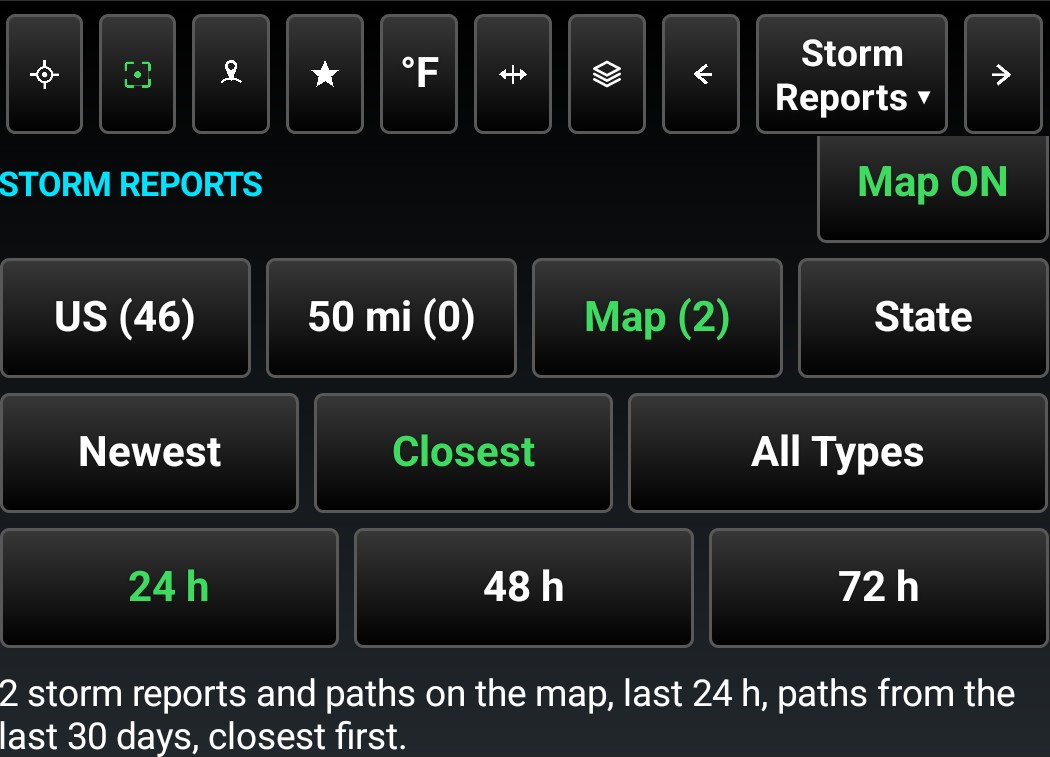
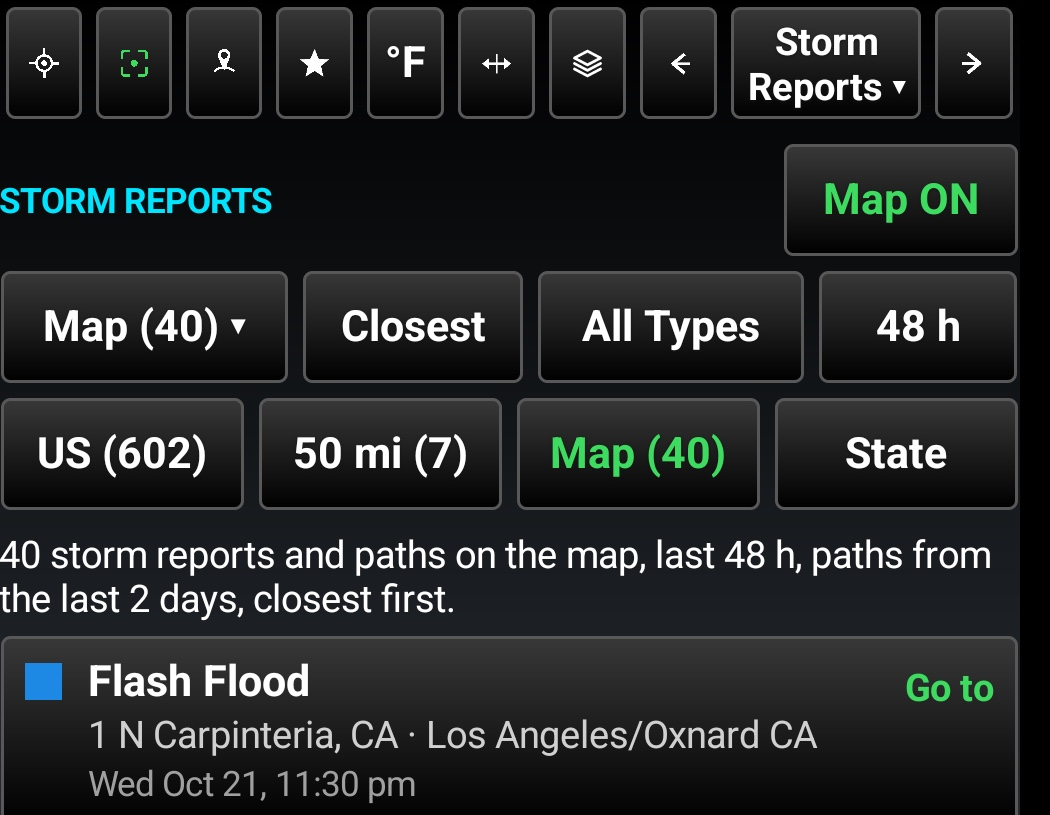
Atmosphere 0.20: one row above the list on Storm Reports and Spot
The three rows of filter buttons on the Storm Reports page and the three on
the Spot Weather Forecast page become one, so the list starts two or three
rows higher (operator, 2026-10-19: "the where can be like a button that gets
expanded, the next filter a button that you click through ... like newest
closest"). The first button reads the current Where pick with its count and
opens the old choices beneath it; a pick closes them again. The sort is one
button that flips between Newest and Closest, and on Storm Reports the window
is one button that steps 24 h, 48 h, 72 h. Types stays the tile picker.

Manual and guide: the two paragraphs and pictures 107 and 59 retaken from the
dev build on an S10. Version 0.20, with the Radar Play GPS-lock fix merged
from claude/issue-83 (PR #6).

diff --git a/app/src/main/java/com/atakmap/android/atmosphere/ui/ReportsPage.java b/app/src/main/java/com/atakmap/android/atmosphere/ui/ReportsPage.java
@@ -120,9 +120,10 @@ public final class ReportsPage {
     private final EgressPolicy egress;
     private final Host host;
     private final ScrollView root;
-    private final LinearLayout gate, browse, detail, list, windowRow;
+    private final LinearLayout gate, browse, detail, list, whereBody;
     private final TextView gateText, status, detailTitle, detailFacts;
-    private final Button gateButton, all, near, onMap, state, sortNewest, sortClosest, typeButton;
+    private final Button gateButton, all, near, onMap, state, whereHead, sortButton, typeButton,
+            windowButton;
     private StormReportsOverlay overlay;
     private TornadoPathsOverlay paths;
     private Filter filter = Filter.ALL;
@@ -210,7 +211,22 @@ public final class ReportsPage {
         browse = new LinearLayout(pluginContext);
         browse.setOrientation(LinearLayout.VERTICAL);
         body.addView(browse);
-        final LinearLayout where = row();
+        // One row above the list, so the list starts higher (operator, 2026-10-19: "the
+        // where can be like a button that gets expanded, the next filter a button that
+        // you click through ... like newest closest"). Where reads the current pick and
+        // opens its choices beneath; the order and the window cycle on a tap.
+        final LinearLayout top = row();
+        whereHead = chip("");
+        sortButton = chip("");
+        typeButton = chip(pluginContext.getString(R.string.reports_type_all));
+        windowButton = chip("");
+        top.addView(whereHead, weight(1.3f, true));
+        top.addView(sortButton, weight(1f, true));
+        top.addView(typeButton, weight(1.2f, true));
+        top.addView(windowButton, weight(0.9f, false));
+        browse.addView(top);
+        whereBody = row();
+        whereBody.setVisibility(View.GONE);
         all = chip(pluginContext.getString(R.string.reports_anywhere));
         near = chip(pluginContext.getString(R.string.reports_near));
         onMap = chip(pluginContext.getString(R.string.reports_map));
@@ -218,18 +234,8 @@ public final class ReportsPage {
         // Four chips with counts share one row; "Nationwide (143)" was cut to "Nationw..."
         // on a phone-width pane (operator, 2026-10-12), so the first reads "US".
         for (Button b : new Button[] { all, near, onMap, state })
-            where.addView(b, weight(1f, b != state));
-        browse.addView(where);
-        final LinearLayout order = row();
-        sortNewest = chip(pluginContext.getString(R.string.spot_sort_newest));
-        sortClosest = chip(pluginContext.getString(R.string.spot_sort_closest));
-        typeButton = chip(pluginContext.getString(R.string.reports_type_all));
-        order.addView(sortNewest, weight(1f, true));
-        order.addView(sortClosest, weight(1f, true));
-        order.addView(typeButton, weight(1.4f, false));
-        browse.addView(order);
-        windowRow = row();
-        browse.addView(windowRow);
+            whereBody.addView(b, weight(1f, b != state));
+        browse.addView(whereBody);
         status = text(13, false);
         status.setPadding(0, dp(6), 0, 0);
         browse.addView(status);
@@ -391,16 +397,27 @@ public final class ReportsPage {
                 pickState();
             }
         });
-        sortNewest.setOnClickListener(new View.OnClickListener() {
+        whereHead.setOnClickListener(new View.OnClickListener() {
             @Override
             public void onClick(View v) {
-                setClosest(false);
+                whereBody.setVisibility(whereBody.getVisibility() == View.VISIBLE ? View.GONE
+                        : View.VISIBLE);
             }
         });
-        sortClosest.setOnClickListener(new View.OnClickListener() {
+        sortButton.setOnClickListener(new View.OnClickListener() {
             @Override
             public void onClick(View v) {
-                setClosest(true);
+                setClosest(!closest);
+            }
+        });
+        windowButton.setOnClickListener(new View.OnClickListener() {
+            @Override
+            public void onClick(View v) {
+                final OutlookOverlay layer = overlay;
+                if (layer == null)
+                    return;
+                layer.setDay(layer.day() % layer.days() + 1);
+                render();
             }
         });
         typeButton.setOnClickListener(new View.OnClickListener() {
@@ -413,6 +430,7 @@ public final class ReportsPage {
 
     private void setFilter(Filter f) {
         filter = f;
+        whereBody.setVisibility(View.GONE);
         final SharedPreferences p = MapCompat.prefs();
         if (p != null)
             p.edit().putString(PREF_FILTER, f.name()).putString(PREF_STATE, stateCode)
@@ -464,7 +482,7 @@ public final class ReportsPage {
     private void render() {
         if (overlay == null)
             return;
-        buildWindowRow();
+        paintWindow();
         paintFilters();
         list.removeAllViews();
         final List<Item> pool = pool();
@@ -552,25 +570,12 @@ public final class ReportsPage {
         return n == 1 ? StormReports.FAMILIES[which].toLowerCase(Locale.US) : "selected";
     }
 
-    /** The window chips, the layer's own: 24 h, 48 h, 72 h. */
-    private void buildWindowRow() {
-        windowRow.removeAllViews();
+    /** The window button, the layer's own: 24 h, 48 h, 72 h, one tap to the next. */
+    private void paintWindow() {
         final OutlookOverlay layer = overlay;
-        if (layer == null)
-            return;
-        for (int d = 1; d <= layer.days(); d++) {
-            final int value = d;
-            final Button b = chip(layer.dayLabel(d));
-            green(b, layer.day() == d);
-            b.setOnClickListener(new View.OnClickListener() {
-                @Override
-                public void onClick(View v) {
-                    layer.setDay(value);
-                    render();
-                }
-            });
-            windowRow.addView(b, weight(1f, d < layer.days()));
-        }
+        windowButton.setVisibility(layer == null ? View.GONE : View.VISIBLE);
+        if (layer != null)
+            windowButton.setText(layer.dayLabel(layer.day()));
     }
 
     /** Each filter says what it would show before it is tapped. */
@@ -586,14 +591,17 @@ public final class ReportsPage {
                 + (box == null ? "" : count(can, inBox(can, box).size())));
         state.setText(stateCode.isEmpty() ? pluginContext.getString(R.string.spot_state)
                 : Spot.stateName(stateCode) + count(can, inState(can, stateCode).size()));
-        green(sortNewest, !closest);
-        green(sortClosest, closest);
+        sortButton.setText(pluginContext.getString(closest ? R.string.spot_sort_closest
+                : R.string.spot_sort_newest));
         typeButton.setText(typeWords());
         green(typeButton, !overlay.allFamilies());
         green(all, filter == Filter.ALL);
         green(near, filter == Filter.NEAR);
         green(onMap, filter == Filter.MAP);
         green(state, filter == Filter.STATE);
+        final Button picked = filter == Filter.ALL ? all : filter == Filter.NEAR ? near
+                : filter == Filter.MAP ? onMap : state;
+        whereHead.setText(picked.getText() + " \u25BE");
     }
 
     private static String count(List<?> pool, int n) {

diff --git a/app/src/main/java/com/atakmap/android/atmosphere/ui/SpotPage.java b/app/src/main/java/com/atakmap/android/atmosphere/ui/SpotPage.java
@@ -114,8 +114,9 @@ public final class SpotPage {
     private final Host host;
     private final View root;
     private final View gate, browse, detail;
-    private final Button all, near, onMap, state, region;
-    private final Button sortNewest, sortClosest, kindButton;
+    private final Button all, near, onMap, state, region, whereHead;
+    private final View whereBody;
+    private final Button sortButton, kindButton;
     private boolean closest;
     private final TextView status;
     private final android.widget.EditText search;
@@ -220,8 +221,9 @@ public final class SpotPage {
         onMap = root.findViewById(R.id.spot_map);
         state = root.findViewById(R.id.spot_state);
         region = root.findViewById(R.id.spot_region);
-        sortNewest = root.findViewById(R.id.spot_sort_newest);
-        sortClosest = root.findViewById(R.id.spot_sort_closest);
+        whereHead = root.findViewById(R.id.spot_where);
+        whereBody = root.findViewById(R.id.spot_where_body);
+        sortButton = root.findViewById(R.id.spot_sort);
         kindButton = root.findViewById(R.id.spot_kind);
         status = root.findViewById(R.id.spot_status);
         search = root.findViewById(R.id.spot_search);
@@ -416,16 +418,17 @@ public final class SpotPage {
                 pickRegion();
             }
         });
-        sortNewest.setOnClickListener(new View.OnClickListener() {
+        whereHead.setOnClickListener(new View.OnClickListener() {
             @Override
             public void onClick(View v) {
-                setClosest(false);
+                whereBody.setVisibility(whereBody.getVisibility() == View.VISIBLE ? View.GONE
+                        : View.VISIBLE);
             }
         });
-        sortClosest.setOnClickListener(new View.OnClickListener() {
+        sortButton.setOnClickListener(new View.OnClickListener() {
             @Override
             public void onClick(View v) {
-                setClosest(true);
+                setClosest(!closest);
             }
         });
         kindButton.setOnClickListener(new View.OnClickListener() {
@@ -506,6 +509,7 @@ public final class SpotPage {
 
     private void setFilter(Filter f) {
         filter = f;
+        whereBody.setVisibility(View.GONE);
         final SharedPreferences p = MapCompat.prefs();
         if (p != null)
             p.edit().putString(PREF_FILTER, f.name()).putString(PREF_STATE, stateCode)
@@ -809,8 +813,8 @@ public final class SpotPage {
                 : Spot.stateName(stateCode) + count(Spot.inState(can, stateCode).size()));
         region.setText(regionCode.isEmpty() ? pluginContext.getString(R.string.spot_region)
                 : Spot.regionName(regionCode) + count(Spot.inRegion(can, regionCode).size()));
-        green(sortNewest, !closest);
-        green(sortClosest, closest);
+        sortButton.setText(pluginContext.getString(closest ? R.string.spot_sort_closest
+                : R.string.spot_sort_newest));
         final String kind = com.atakmap.android.atmosphere.overlay.SpotOverlay.kindFilter();
         kindButton.setText(kind.isEmpty() ? pluginContext.getString(R.string.spot_kind_all)
                 : com.atakmap.android.atmosphere.overlay.SpotOverlay.kindName(kind));
@@ -820,6 +824,9 @@ public final class SpotPage {
         green(onMap, filter == Filter.MAP);
         green(state, filter == Filter.STATE);
         green(region, filter == Filter.REGION);
+        final Button picked = filter == Filter.ALL ? all : filter == Filter.NEAR ? near
+                : filter == Filter.MAP ? onMap : filter == Filter.STATE ? state : region;
+        whereHead.setText(picked.getText() + " \u25BE");
     }
 
     private String count(int n) {

diff --git a/docs/USER_GUIDE.md b/docs/USER_GUIDE.md
@@ -414,13 +414,16 @@ layer.
 <img src="screenshots/97_reports_layer_block.png" width="420"> <img src="screenshots/101_reports_map.jpg" width="420">
 
 **The Storm Reports page** lists the same reports, and the tornado paths with
-them: **US**, **Near** the point in the pane's top row (your position,
-the map center or a picked point), on the **Map** as it sits, re-read whenever
-the map settles, or by **State**; **Newest** or **Closest** first; and a type
-picker of switches, any mix of the eight families and **Tornado**, which covers
-the dots and the paths. What you tick is what the map draws. A row flies the
-map to the report and opens its details in one tap. **Open the list** under the
-layer's switch jumps to the page.
+them, under one row of buttons. The first reads where the list looks and how
+many it holds, and opens the choices beneath it: **US**, **Near** the point in
+the pane's top row (your position, the map center or a picked point), on the
+**Map** as it sits, re-read whenever the map settles, or by **State**. The next
+flips between **Newest** and **Closest** first. **All Types** is a type picker
+of switches, any mix of the eight families and **Tornado**, which covers the
+dots and the paths; what you tick is what the map draws. The last steps through
+the window: **24 h**, **48 h**, **72 h**. A row flies the map to the report and
+opens its details in one tap. **Open the list** under the layer's switch jumps
+to the page.
 
 <img src="screenshots/107_reports_page.jpg" width="420"> <img src="screenshots/108_reports_types.png" width="420">
 
@@ -550,10 +553,12 @@ report is not drawn there.
 ## 11. Spot Weather Forecast
 
 The layer draws every spot forecast request the National Weather Service has
-open, with the forecast the office wrote for each. The page lists them — All,
-Nearby, On map, by State or by Region — **Newest** or **Closest** first, and a
-search box finds one by incident name. Nearby and Closest measure from the
-point chosen in the top row. Tap a request for its forecast.
+open, with the forecast the office wrote for each. The page lists them under
+one row of buttons: the first reads where the list looks and how many it holds,
+and opens the choices beneath it (All, Nearby, On map, by State or by Region);
+the next flips between **Newest** and **Closest** first; and a search box under
+the row finds one by incident name. Nearby and Closest measure from the point
+chosen in the top row. Tap a request for its forecast.
 
 <img src="screenshots/58_spots.jpg" width="420"> <img src="screenshots/59_spot_list.png" width="420">
 
